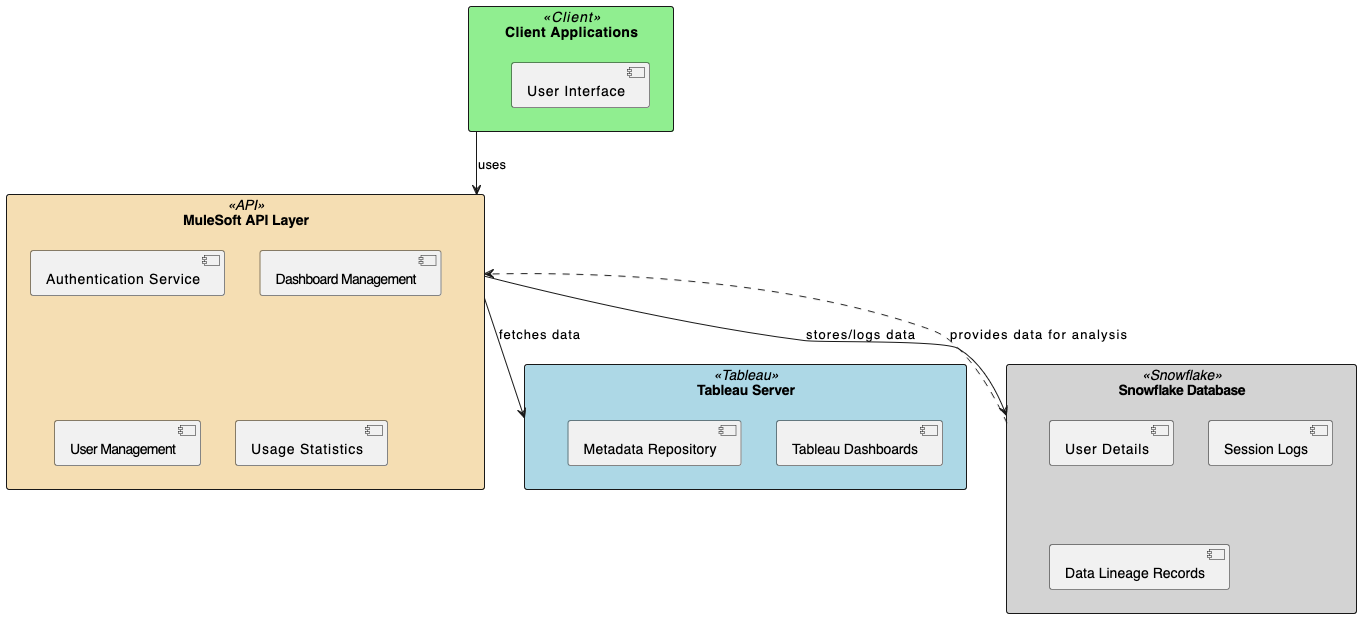
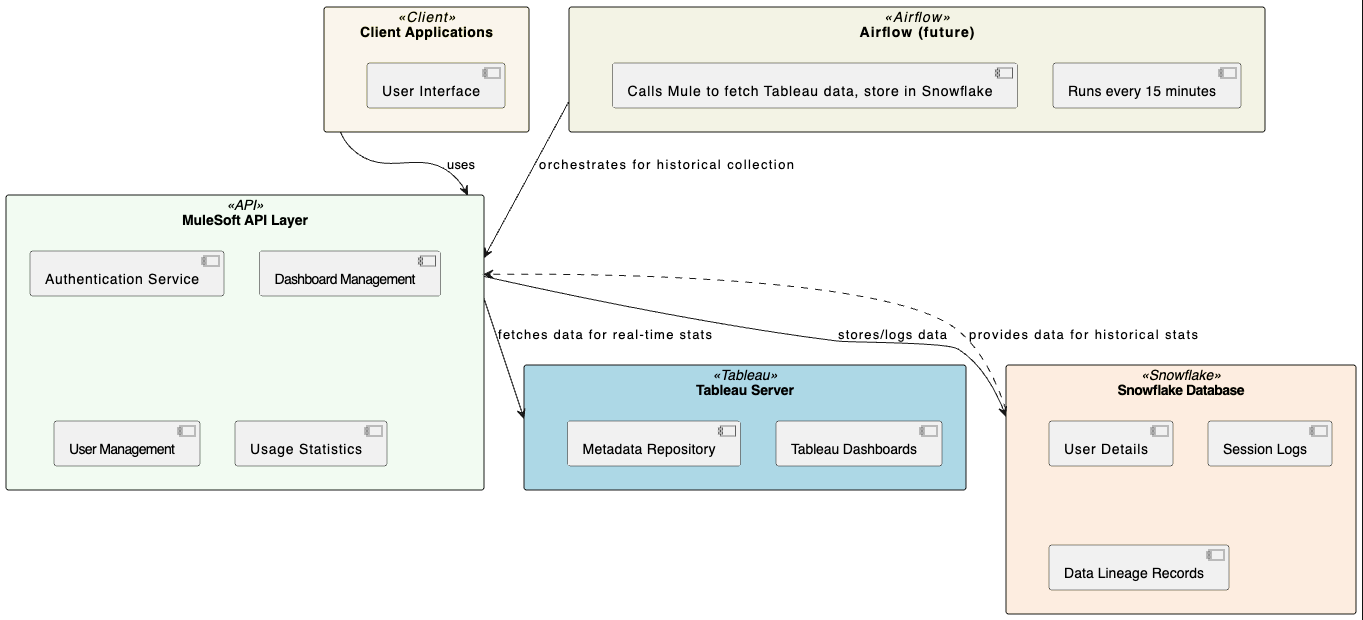
added diagrams and more arch doc

diff --git a/README.md b/README.md
@@ -1,7 +1,7 @@
 # Dashboard Engagement Project
 
 ##### Author: Omer Ansari
-Initialize date: 5.27.24
+##### Initialize date: 5.27.24
 
 
 
@@ -10,6 +10,10 @@ The code repository where I document the experience and learnings from developin
 Specifically, this software project is focused on building out an API which serves engagement statistics of dashboards used by a firm for useful operational and analytical purposes.
 
 This project has been opensourced under the Apache license.
+
+
+![Multi-Agent-Framework  Software Design](images/maf_arch.png)
+_Multi-Agent-Framework SW Design Created from this [plantUML](docs/maf_orch.puml)_
 
 
 ### Business Goal: 
@@ -27,6 +31,15 @@ I anticipate that there is specific amount of pre-work required to be done by hu
 
 Back to this project:
 
+
+### Overall Software Design
+
+![Software Design](images/maf_arch.png)
+_SW Design Created from this [plantUML](docs/maf_orch.puml)_
+
+I designed this plantUML initially by prompting GPT4, and then fine-tuning the resulting plantUML file until I got the connections right.
+
+
 ### Hypothesis of this project
 If robust APIs exist for the dashboard, the backing database and the API platform (and the pre-work has been done to to make these LLM MAFs useful), we can let these MAFs explore, test, and deploy these APIs themselves with a little human tuning along the way. 
 
@@ -39,6 +52,7 @@ However, we have to start somewhere, so I have chosen a few backend technologies
 - **Dashboard platform:** Tableau. _other [possibilities](docs/dashbard_platforms.md)_
 - **API platform:** Mulesoft. _other [possibilities](docs/api_platforms.md)_
 - **Backing database:** Snowflake.  _other [possibilities](docs/db_platforms.md)_
+- **Multi-Agent framework:** Agentlite. _other [possibilities](docs/mafs.md)_
 
 
 ### API spec
@@ -51,12 +65,13 @@ To create these, I interacted with the Software Architect GPT (By V B Wickramasi
 - Generic Project [implementation steps and milestones](docs/milestones.md)
 
 
-### Software Design
+### Software Design for Project
 
 The following is a basic diagram to illustrate the architecture of the API application that interfaces with the Tableau platform and utilizes Snowflake for storage. This diagram will include the main components such as the MuleSoft API layer, the Tableau Server, and the Snowflake database, showing how they interact.
 
 ![Software Design](images/sw_arch.png)
-_Created from this [plantUML](docs/sw_arch.puml)_
+_SW Design Created from this [plantUML](docs/sw_arch.puml)_
+
 
 To create the diagram in the software architecture, I used Tim Kitchen's excellent youtube [video](https://www.youtube.com/watch?v=YaqXF5UeRQE) where he shows how to use GPT to build software design documents using plantuml and then feed them to draw.io.
 
@@ -76,3 +91,35 @@ To create the diagram in the software architecture, I used Tim Kitchen's excelle
 - **Snowflake Database**: Used for storing detailed logs, user information, and other persistent data necessary for historical analysis and data lineage.
 
 This diagram provides a visual breakdown of how each component of the API interacts with others, supporting better understanding and communication among stakeholders involved in the project.
+
+
+### Design for the Multi-Agent-Framework developing the application
+
+The above was the software that this project is striving to create. In this section, what you see is the actual multi-agent-framework which will be used to develop this application
+
+![Multi-Agent-Framework  Software Design](images/maf_arch.png)
+_Multi-Agent-Framework SW Design Created from this [plantUML](docs/maf_orch.puml)_
+
+### AI Engineer
+- Crafts Prompt: Creates and manages user stories.
+
+### Client Applications
+The frontend interface for user interactions.
+
+### Multi-Agent Framework (MAF)
+- **Product Manager Agent**: Breaks down work and creates plans.
+- **Critique Agent**: Reviews and critiques the plans.
+- **LLM QA Agent**: Ensures the quality of the code.
+- **LLM Coder Agent**: Tests APIs, writes code, writes test code, and calls helper functions.
+- **User Proxy Agent**: Manages agents, consolidates results, and presents results back to the AI Engineer.
+
+### Systems
+- **Mulesoft**: Provides an API Gateway and Authentication Service.
+- **Tableau**: Manages dashboards and provides usage statistics.
+- **Snowflake**: Offers data storage and enables historical data analysis.
+- **Airflow (Future)**: Manages task scheduling and workflow management.
+
+### Interactions
+The AI Engineer crafts prompts and initiates projects through the User Proxy Agent. The User Proxy Agent manages interactions with the Product Manager Agent, who breaks down the work and creates plans. These plans are sent to the Critique Agent for feedback, then finalized and passed to the LLM Coder Agent for coding. The LLM QA Agent reviews the code for quality, and the final code is sent back to the Product Manager Agent and then to the User Proxy Agent, who consolidates and presents the results back to the AI Engineer.
+
+The LLM Coder Agent interacts with Mulesoft by writing RAML for API authoring, retrieves data through Tableau, stores and queries data with Snowflake, and schedules tasks with Airflow. Mulesoft acts as the API Gateway connecting to both Tableau and Snowflake, while Airflow interacts with Mulesoft for running batch jobs to extract date from Tableau and store in a persistent database. Client Applications interface directly with Mulesoft for user interactions.

diff --git a/docs/mafs.md b/docs/mafs.md
@@ -1,0 +1,49 @@
+Here's a summary of several multi-agent frameworks for agentic LLM-based workflows, including LangGraph, CrewAI, AutoGen, and AgentLite:
+
+### LangGraph
+LangGraph is a framework designed for building stateful, multi-actor applications using large language models (LLMs). It emphasizes the use of graphs to define complex interactions between agents. Key features include:
+
+- **Stateful Multi-Actor Applications**: Supports applications involving multiple interacting agents with maintained states throughout the process.
+- **Cyclical Computation Support**: Allows for cycles within LLM applications, which is crucial for simulating agent-like behaviors.
+- **Integration with LangChain**: Builds on LangChain to extend its capabilities, especially useful for applications requiring repetitive or cyclical processes.
+
+LangGraph is particularly suitable for custom-built systems needing detailed control and scalability【6†source】【7†source】.
+
+### CrewAI
+CrewAI focuses on role-based agent design, enabling agents to assume specific roles and goals, thus facilitating sophisticated multi-agent interactions. Notable features include:
+
+- **Role-Based Agent Design**: Customizable agents with predefined roles and goals, supported by specific toolsets.
+- **Autonomous Inter-Agent Delegation**: Agents can autonomously delegate tasks among themselves to enhance problem-solving efficiency.
+- **Flexible Task Management**: Supports dynamic assignment of tasks to agents, adapting to project needs.
+
+CrewAI is ideal for scenarios requiring structured processes and high flexibility, making it suitable for both development and production environments【7†source】【10†source】.
+
+### AutoGen
+AutoGen is an open-source framework by Microsoft designed for creating LLM applications via multiple conversational agents. Its main characteristics are:
+
+- **Conversational Engagement**: Agents can engage in dialogues, sharing messages to accomplish tasks collectively.
+- **Customization and Integration**: Allows integration of various components like LLMs, human inputs, and tools, offering a high degree of customization.
+- **Teachable Agents**: Agents can learn from interactions and improve their performance over time.
+
+AutoGen excels in creating conversational patterns and is highly autonomous, making it suitable for complex and diverse applications【8†source】【9†source】.
+
+### AgentLite
+AgentLite is a lightweight library developed by Salesforce AI Research for building and advancing task-oriented LLM-based agent systems. It simplifies the creation and orchestration of both individual and multi-agent systems, providing an easy-to-use foundation for research and development.
+
+Key Features
+- Lightweight Codebase: Designed for easy implementation of new agent/multi-agent architectures.
+- Task-Oriented Agents: Focus on specific tasks, enhancing performance and capabilities.
+- Research-Oriented: Ideal for exploring advanced concepts in multi-agent systems.
+
+For more details, visit the AgentLite GitHub [repository](https://github.com/SalesforceAIResearch/AgentLite) and read the [AgentLite paper](https://arxiv.org/pdf/2402.15538)
+
+### Comparative Overview
+| Feature                      | LangGraph                | CrewAI                    | AutoGen                   | AgentLite                   |
+|------------------------------|--------------------------|---------------------------|---------------------------|-----------------------------|
+| **Type of Framework**        | Graph-Based Agents       | Role-Playing Agents       | Conversational Agents     | Lightweight Agents          |
+| **Autonomy**                 | Conditionally Autonomous | Highly Autonomous         | Highly Autonomous         | Simple, Lightweight         |
+| **Collaboration**            | Condition-Based Graphs   | Autonomous Delegation     | Group Conversations       | Quick Integration           |
+| **Execution**                | Graph Nodes as Agents    | Role-Based Tasks          | Conversational Flows      | Minimal Configuration       |
+| **Ideal Use Cases**          | Custom Control Scenarios | Development to Production | Diverse Complex Applications | Rapid Deployment           |
+
+Each of these frameworks offers unique strengths, making them suitable for different types of applications and development stages. Selecting the right framework depends on your specific needs for control, customization, scalability, and ease of integration.

diff --git a/docs/api_spec.md b/docs/api_spec.md
@@ -374,47 +374,3 @@ Here's the same architecture above depicted in a PlantUML format describing the 
 - **Snowflake Database**: Used for storing detailed logs, user information, and other persistent data necessary for historical analysis and data lineage.
 
 This diagram provides a visual breakdown of how each component of the API interacts with others, supporting better understanding and communication among stakeholders involved in the project.
-
-
-
-```plantuml
-@startuml
-!define RECTANGLE class
-skinparam rectangle {
-  BackgroundColor<<API>> Wheat
-  BackgroundColor<<Tableau>> LightBlue
-  BackgroundColor<<Snowflake>> LightGrey
-  BackgroundColor<<Client>> LightGreen
-}
-
-rectangle "Client Applications" as Client <<Client>> {
-  [User Interface]
-}
-
-rectangle "MuleSoft API Layer" as API <<API>> {
-  [Authentication Service]
-  [Dashboard Management]
-  [User Management]
-  [Usage Statistics]
-}
-
-rectangle "Tableau Server" as Tableau <<Tableau>> {
-  [Tableau Dashboards]
-  [Metadata Repository]
-}
-
-rectangle "Snowflake Database" as Snowflake <<Snowflake>> {
-  [User Details]
-  [Session Logs]
-  [Data Lineage Records]
-}
-
-Client --> API : uses
-API --> Tableau : fetches data
-API --> Snowflake : stores/logs data
-Snowflake ..> API : provides data for analysis
-
-@enduml
-```
-
-
